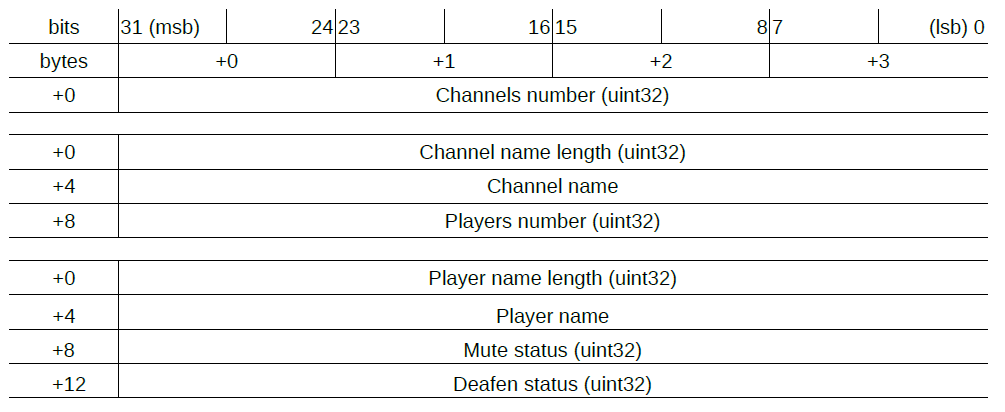
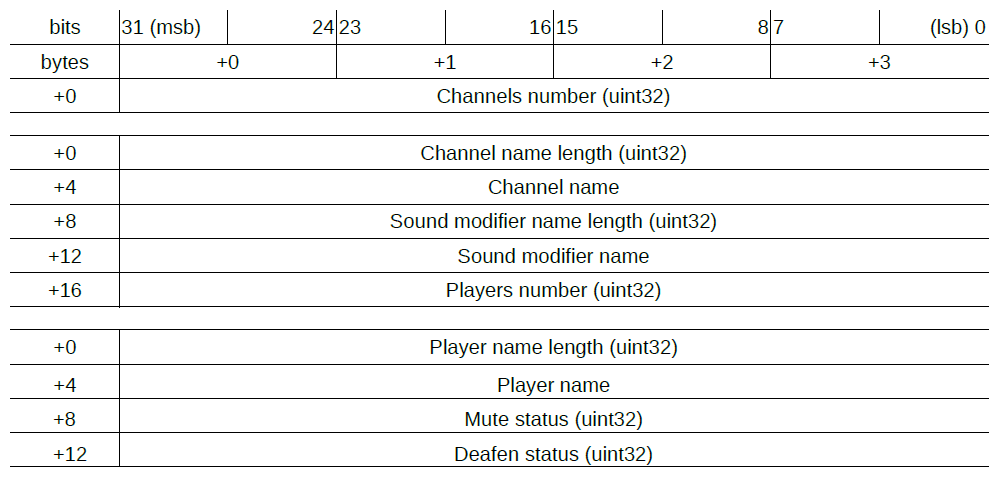
Adding sound modifier name in the description of a channel

Changed region(s): [[0.0, 0.0291, 0.9871, 0.9903]]

diff --git a/src/main/java/fr/pederobien/mumble/common/impl/interpreters/ChannelsInterpreter.java b/src/main/java/fr/pederobien/mumble/common/impl/interpreters/ChannelsInterpreter.java
@@ -23,6 +23,9 @@ public class ChannelsInterpreter extends AbstractInterpreter {
 				// Channel's name
 				wrapper.putString((String) payload[currentIndex++], true);
 
+				// Channel's sound modifier name
+				wrapper.putString((String) payload[currentIndex++], true);
+
 				// Number of players
 				int numberOfPlayers = (int) payload[currentIndex++];
 				wrapper.putInt(numberOfPlayers);
@@ -63,12 +66,17 @@ public class ChannelsInterpreter extends AbstractInterpreter {
 			first += 4;
 
 			for (int i = 0; i < numberOfChannels; i++) {
+				// Channel's name
 				int channelNameLength = wrapper.getInt(first);
 				first += 4;
-
-				// Channel's name
 				informations.add(wrapper.getString(first, channelNameLength));
 				first += channelNameLength;
+
+				// Channel's sound modifier name
+				int soundModifierNameLength = wrapper.getInt(first);
+				first += 4;
+				informations.add(wrapper.getString(first, soundModifierNameLength));
+				first += soundModifierNameLength;
 
 				// Number of players
 				int numberOfPlayers = wrapper.getInt(first);
@@ -76,10 +84,9 @@ public class ChannelsInterpreter extends AbstractInterpreter {
 				first += 4;
 
 				for (int j = 0; j < numberOfPlayers; j++) {
+					// Player's name
 					int playerNameLength = wrapper.getInt(first);
 					first += 4;
-
-					// Player's name
 					informations.add(wrapper.getString(first, playerNameLength));
 					first += playerNameLength;
 

diff --git a/README.md b/README.md
@@ -148,7 +148,7 @@ Payload structure when received:
 ![plot](./src/main/java/resources/Channels_get.png)
 
 The response is composed of blocks on each the developer has to iterate. The first four bytes indicate the number of channels the Mumble server contains.  
-Then comes informations about each channel: The channel name length and the channel name, the number of player currently registered on the channel.  
+Then comes informations about each channel: The channel name length and the channel name, the sound modifier name length and the sound modifier name, the number of player currently registered on the channel.  
 Then comes informations about each player: The player name length and the player name, the mute status (0 = false, 1 = true) and the deafen status (0 = false, 1 = true).  
 
 ```java
